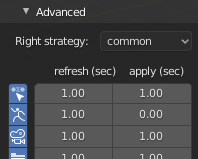
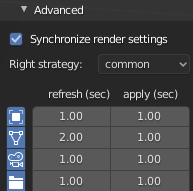
feat: documentation update
Added kick option
Added show flag description
Updated captures

diff --git a/docs/getting_started/quickstart.rst b/docs/getting_started/quickstart.rst
@@ -46,6 +46,8 @@ If 5555 is given in host settings, it will use 5555, 5556 (5555+1), 5557 (5555+2
 
 .. image:: img/quickstart_advanced.png
 
+**Synchronise render settings** (only host) enable replication of EEVEE and CYCLES render settings to match render between clients.
+ 
 **Right strategy** (only host) enable you to choose between a strict and a relaxed pattern:
 
 - **Strict**: Host is the king, by default the host own each properties, only him can grant modification rights.
@@ -76,6 +78,19 @@ By selecting a user in the list you'll have access to different **actions**:
 
 - The **camera button** allow you to snap on the user viewpoint.
 - The **time button** allow you to snap on the user time.
+- The **cross button** [**host only**] allow the admin to kick users
+
+-------------------
+Presence show flags 
+-------------------
+
+.. image:: img/quickstart_presence.png
+
+This pannel allow you to tweak users overlay in the viewport:
+
+- **Show selected objects**: display other users current selection
+- **Show users**: display users current viewpoint 
+- **Show different scenes**: display users on other scenes
 
 ---------------------
 Replicated properties
